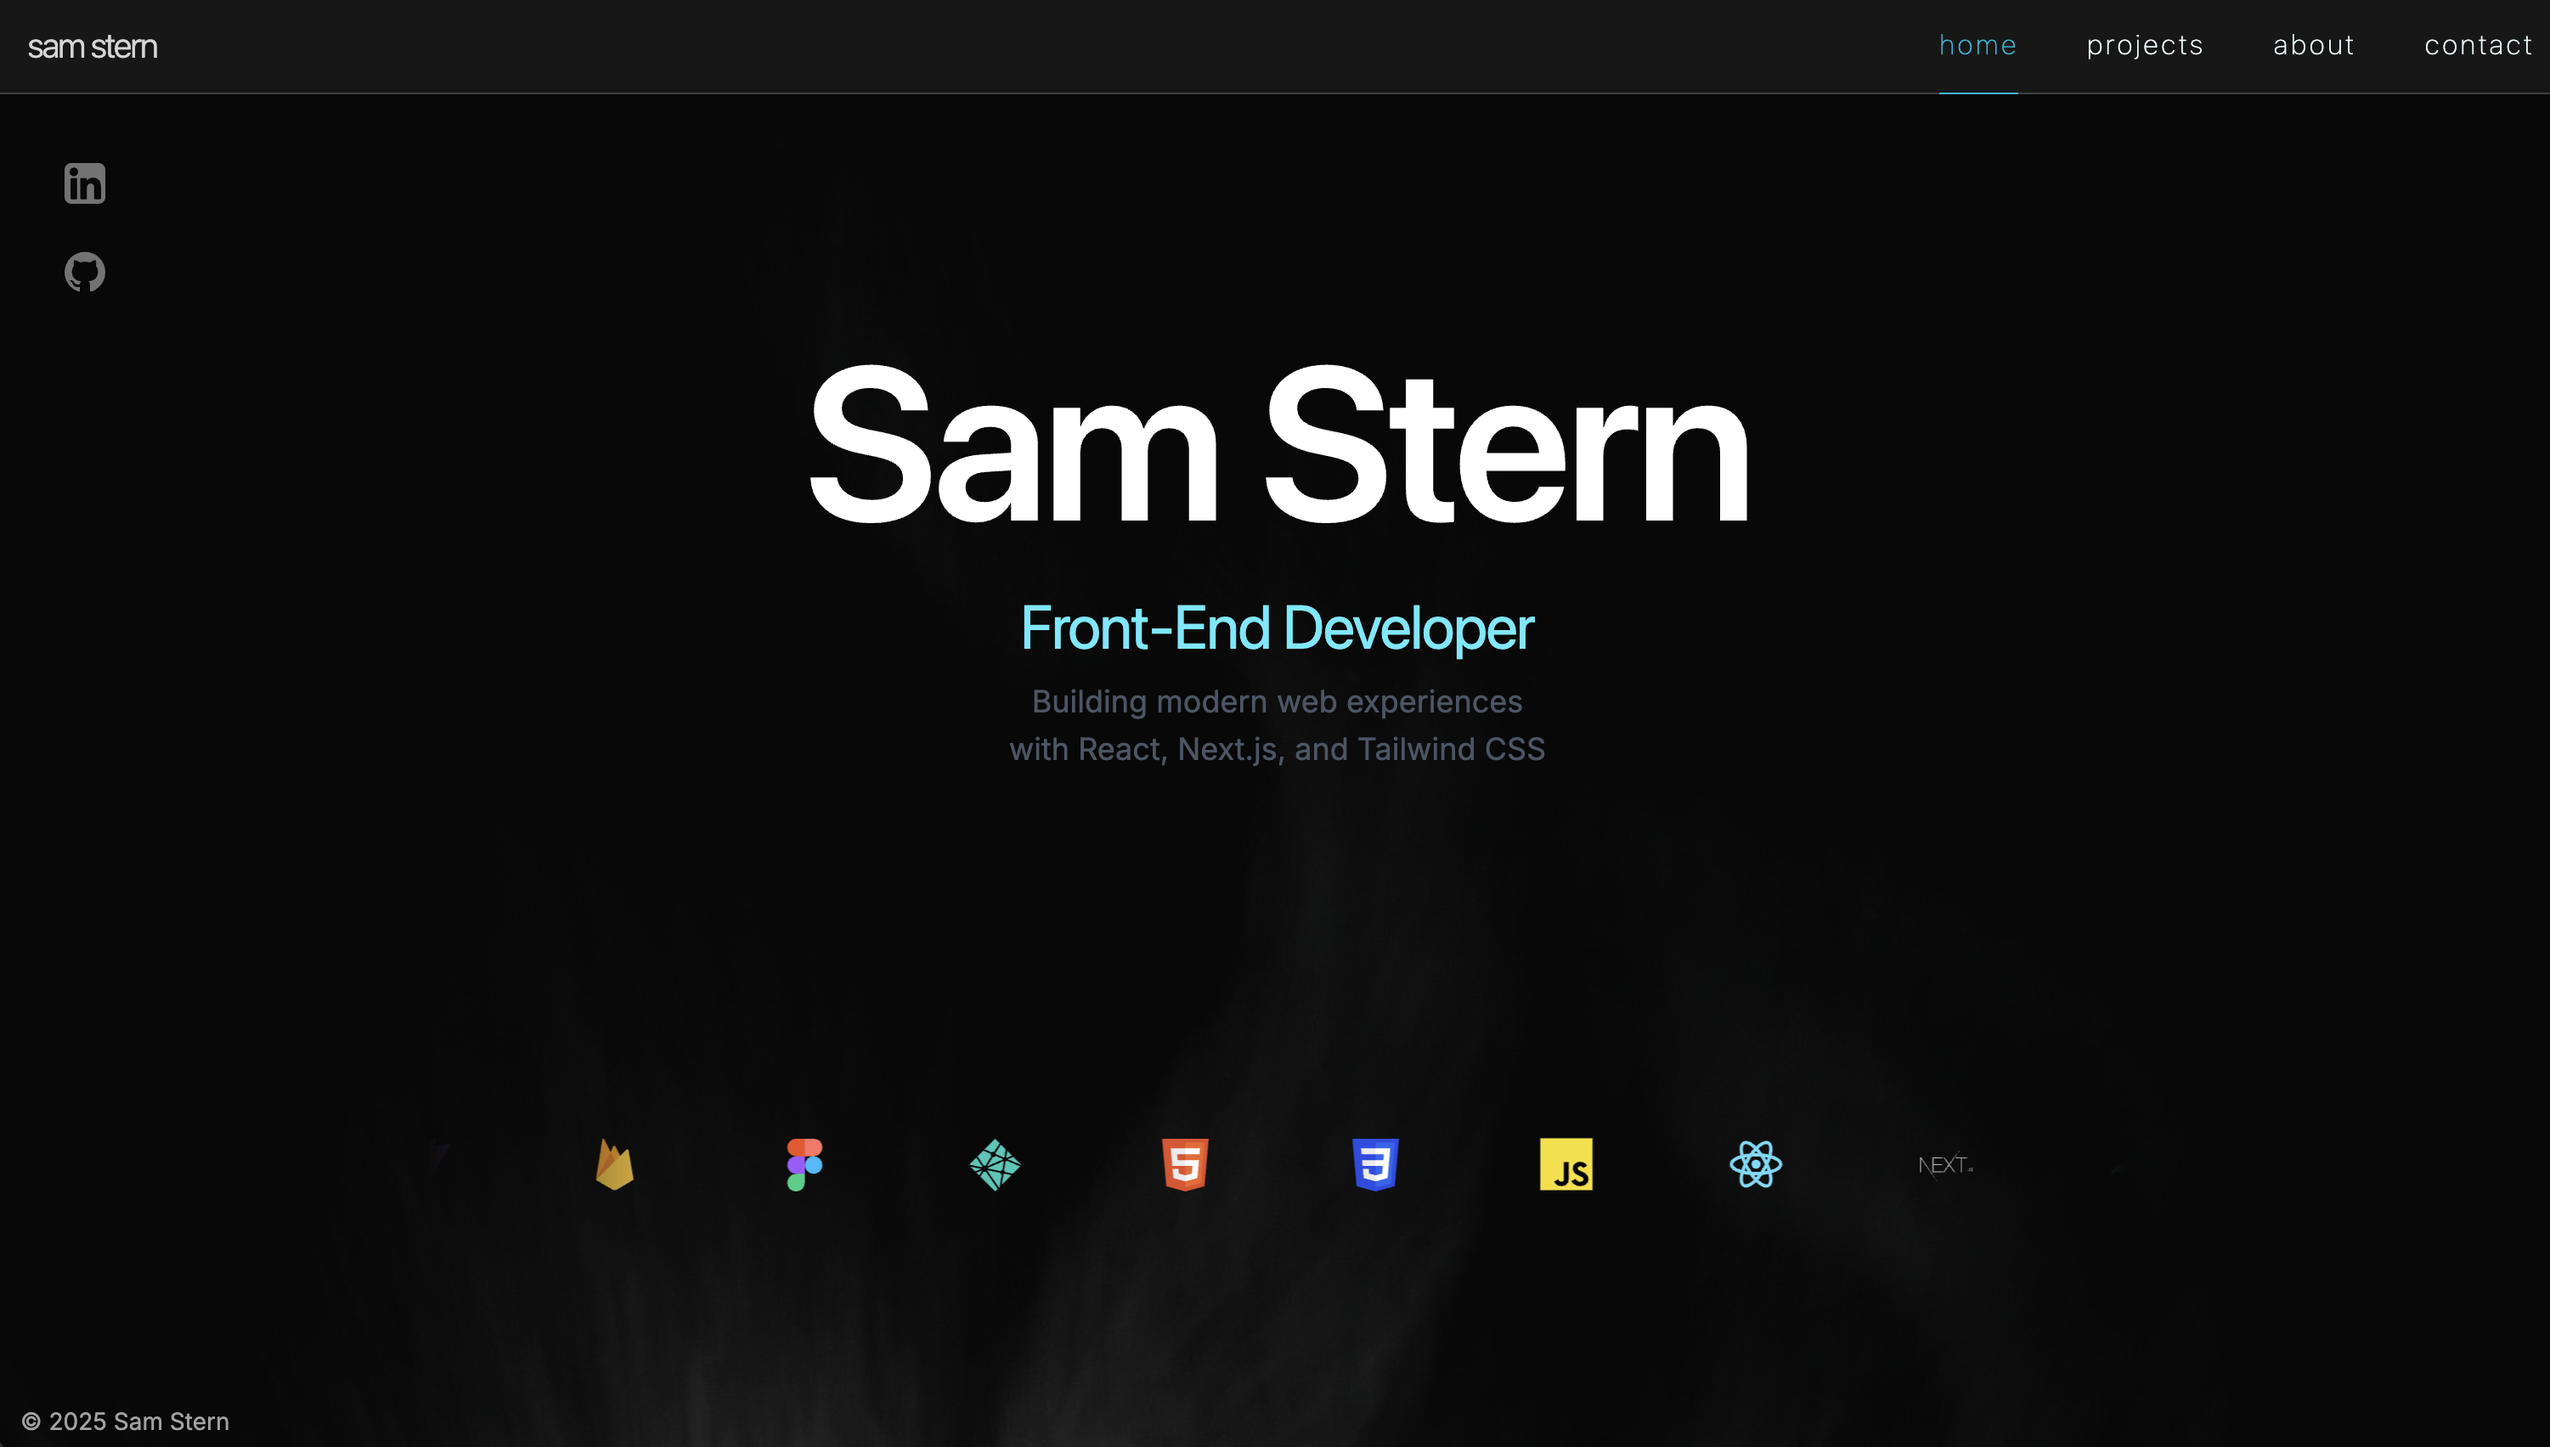
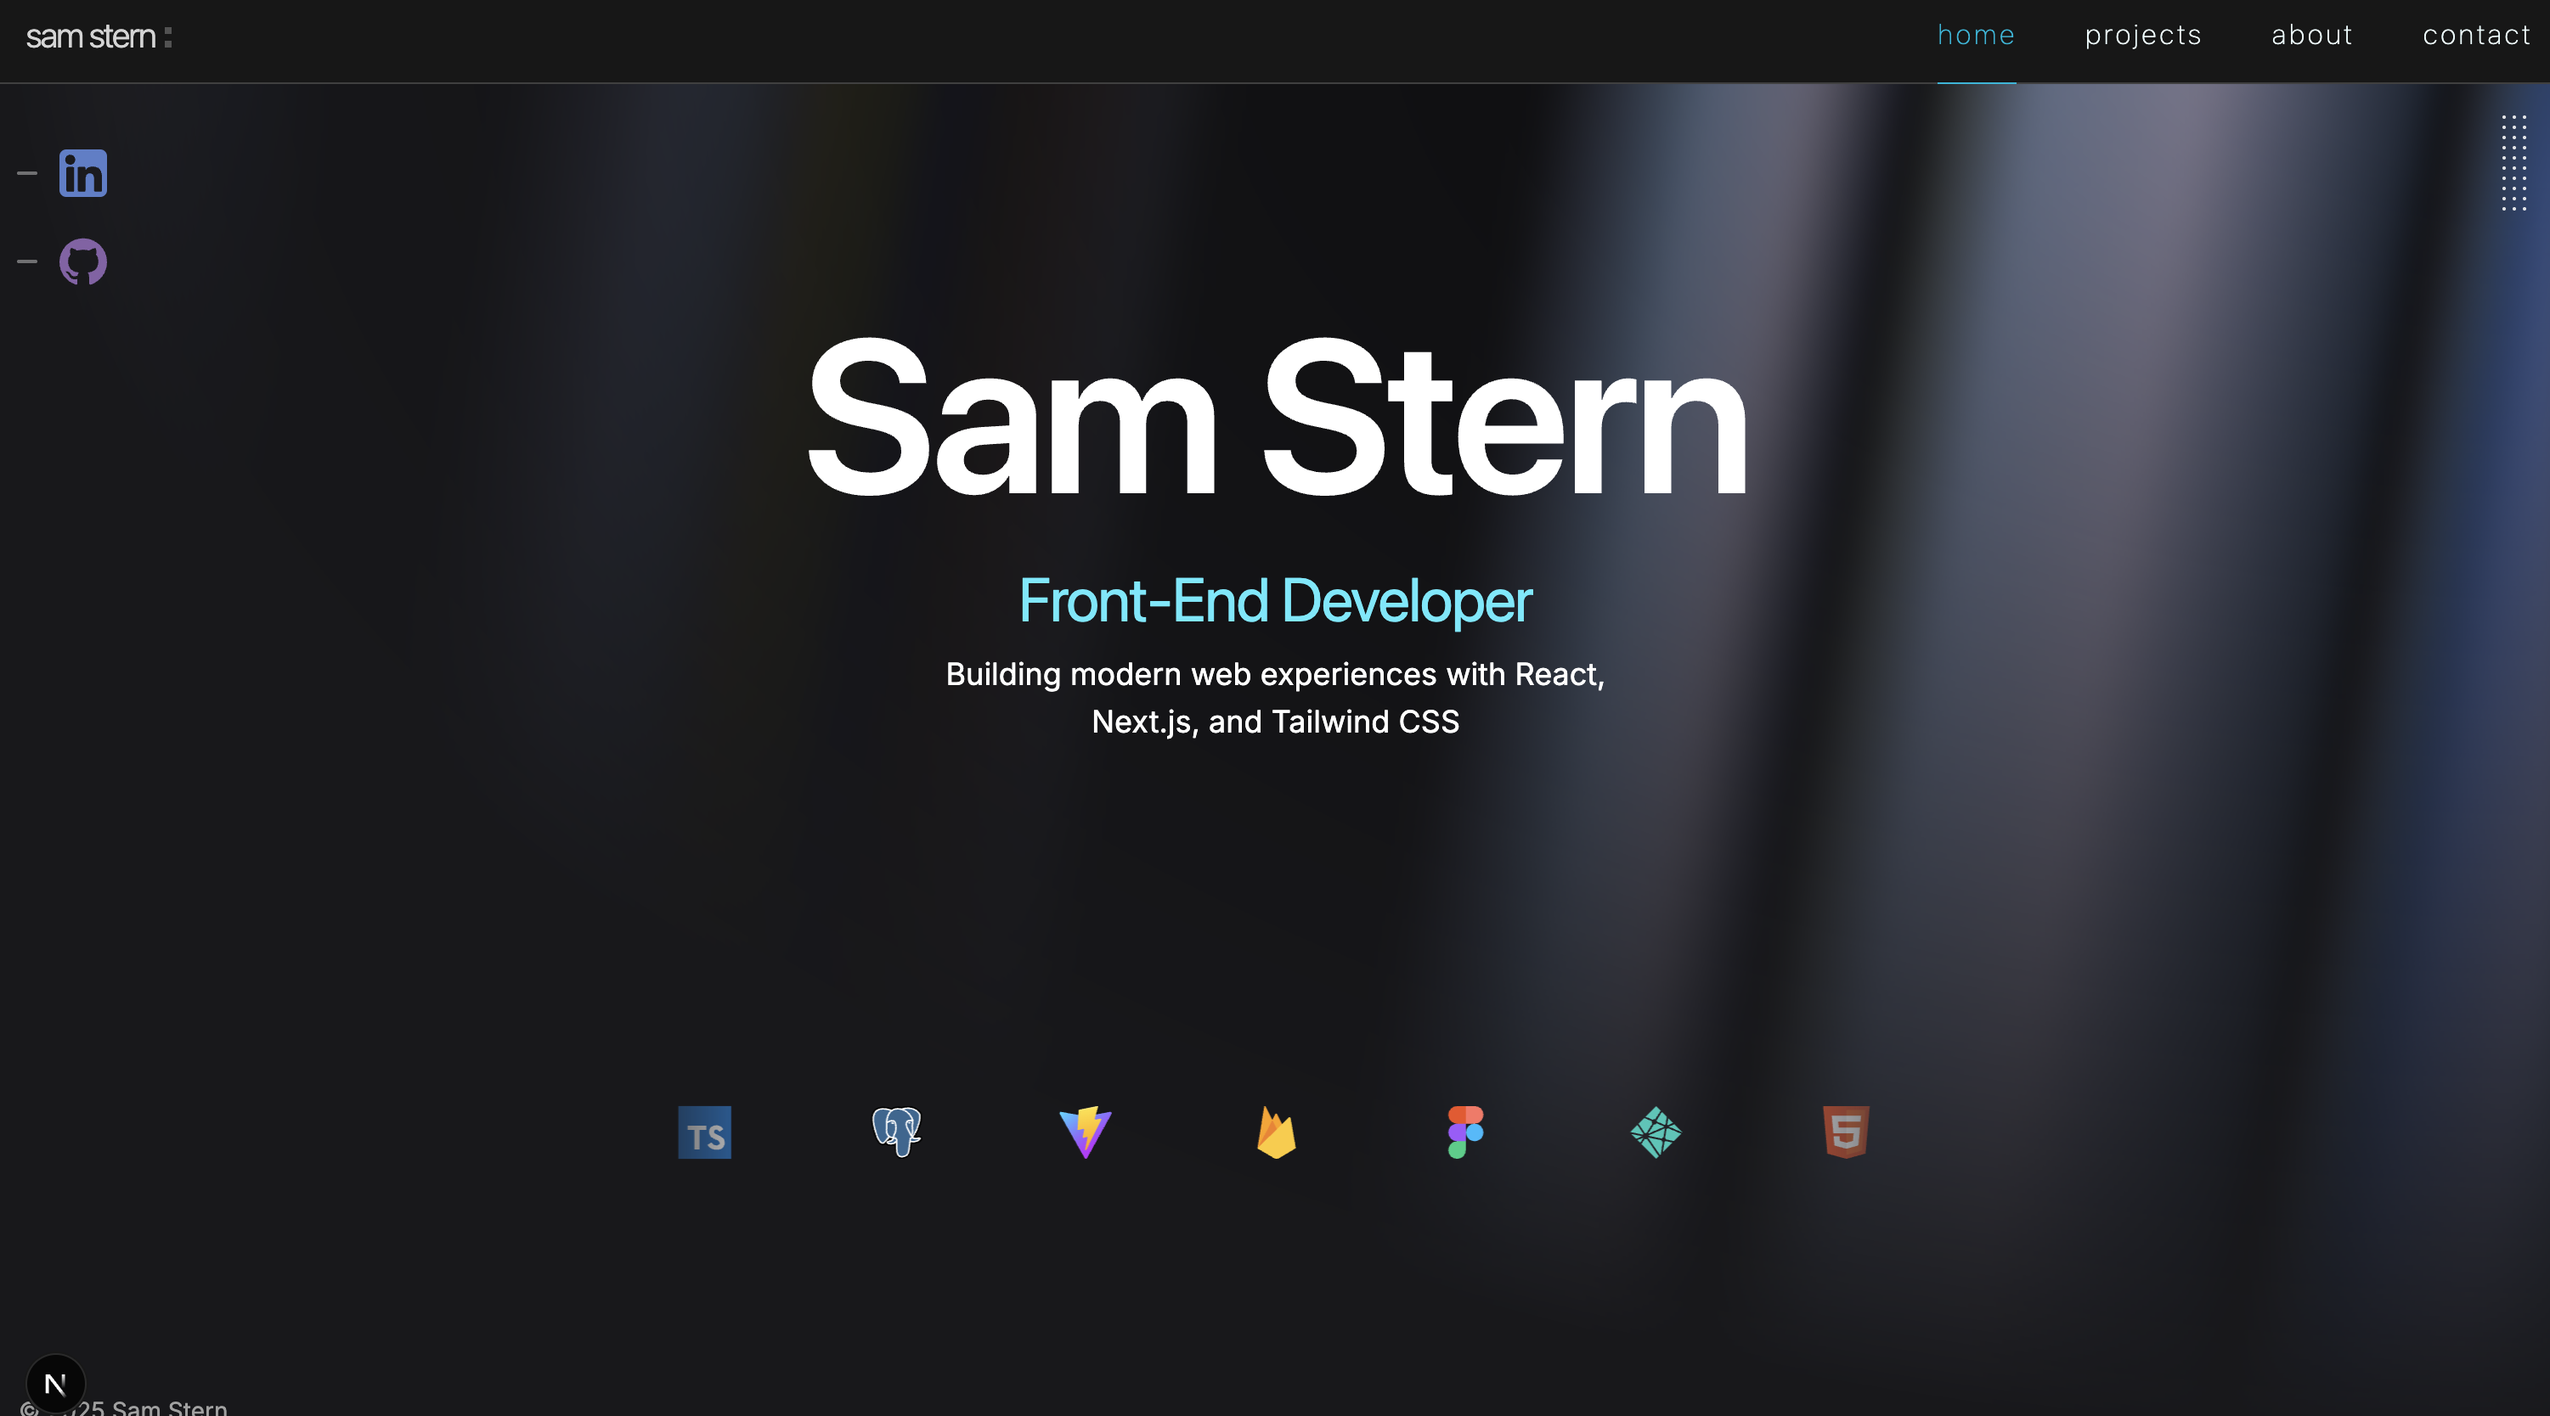
updated Dot gsap

diff --git a/components/ui/dots.tsx b/components/ui/dots.tsx
@@ -22,6 +22,9 @@ export default function Dots({
   yTo = 0,
   repeat = 0,
   yoyo = false,
+  delay = 0,
+  rotateFrom = 0,
+  rotateTo = 0,
 }: DotsProps) {
   const containerRef = useRef<HTMLDivElement>(null);
   const dotsRef = useRef<HTMLDivElement[]>([]);
@@ -30,7 +33,13 @@ export default function Dots({
   useGSAP(() => {
     gsap.fromTo(
       dotsRef.current,
-      { opacity: opacityFrom, scale: scaleFrom, x: xFrom, y: yFrom },
+      {
+        opacity: opacityFrom,
+        scale: scaleFrom,
+        x: xFrom,
+        y: yFrom,
+        rotate: rotateFrom,
+      },
       {
         opacity: opacityTo,
         scale: scaleTo,
@@ -41,6 +50,8 @@ export default function Dots({
         repeat: repeat,
         yoyo: yoyo,
         ease: "power2.inOut",
+        delay: delay,
+        rotate: rotateTo,
       }
     );
   });
@@ -51,6 +62,18 @@ export default function Dots({
     small: "w-1 h-1",
     medium: "w-2 h-2",
     large: "w-3 h-3",
+    xsmallShortLine: "w-0.5 h-1",
+    xsmallMediumLine: "w-0.5 h-3",
+    xsmallLongLine: "w-0.5 h-5",
+    smallShortLine: "w-1 h-3",
+    smallMediumLine: "w-1 h-5",
+    smallLongLine: "w-1 h-7",
+    mediumShortLine: "w-2 h-5",
+    mediumMediumLine: "w-2 h-7",
+    mediumLongLine: "w-2 h-9",
+    largeShortLine: "w-3 h-7",
+    largeMediumLine: "w-3 h-9",
+    largeLongLine: "w-3 h-11",
   };
 
   const shapeClass = shape === "round" ? "rounded-full" : "";
@@ -63,7 +86,7 @@ export default function Dots({
       ref={(el) => {
         if (el) dotsRef.current[i] = el;
       }}
-      className={`bg-neutral-400 border border-neutral-100 ${shapeClass} ${sizeClasses[size]} mx-auto my-auto dot`}
+      className={`bg-neutral-100 border border-neutral-100 ${shapeClass} ${sizeClasses[size]} mx-auto my-auto dot`}
     />
   ));
 
@@ -72,6 +95,7 @@ export default function Dots({
     <div
       className="grid gap-1 place-items-center"
       ref={containerRef}
+      aria-hidden="true"
       style={{
         gridTemplateColumns: `repeat(${cols}, auto)`,
         gridTemplateRows: `repeat(${rows}, auto)`,

diff --git a/app/layout.tsx b/app/layout.tsx
@@ -36,7 +36,7 @@ export default function RootLayout({
               <SocialLinks />
             </aside>
           </header>
-          <div className="absolute hidden md:block top-19 right-5 z-[10000] opacity-40">
+          <div className="absolute hidden md:block top-19 right-5 z-[10000] opacity-90">
             <Dots
               size="xsmall"
               shape="round"
@@ -52,36 +52,40 @@ export default function RootLayout({
               yoyo={false}
             />
           </div>
-          <div className="absolute hidden md:block top-26 left-5 z-[10000] animate-pulse">
+          <div className="absolute hidden md:block top-26 left-5 z-[10000] opacity-40">
             <Dots
-              size="xsmall"
+              size="xsmallMediumLine"
               shape="round"
               cols={1}
-              rows={3}
+              rows={1}
               duration={1}
-              stagger={0.1}
               opacityFrom={1}
               opacityTo={1}
               xFrom={-100}
               xTo={0}
               repeat={0}
               yoyo={false}
+              delay={0}
+              rotateFrom={90}
+              rotateTo={-90}
             />
           </div>
-          <div className="absolute hidden md:block top-39 left-5 z-[10000] animate-pulse">
+          <div className="absolute hidden md:block top-39 left-5 z-[10000] opacity-40">
             <Dots
-              size="xsmall"
+              size="xsmallMediumLine"
               shape="round"
               cols={1}
-              rows={3}
+              rows={1}
               duration={1}
-              stagger={0.1}
               opacityFrom={1}
               opacityTo={1}
               xFrom={-100}
               xTo={0}
               repeat={0}
               yoyo={false}
+              delay={0.1}
+              rotateFrom={90}
+              rotateTo={-90}
             />
           </div>
 

diff --git a/components/Navbar.tsx b/components/Navbar.tsx
@@ -3,6 +3,7 @@
 import SocialLinks from "@/components/SocialLinks";
 import { links } from "@/lib/navLinkData";
 import Link from "next/link";
+import Dots from "./ui/dots";
 
 import NavLink from "@/components/NavLink";
 import { useState } from "react";
@@ -40,16 +41,29 @@ export default function Navbar() {
 
   return (
     <nav
-      className="fixed top-0 w-full z-[9999] px-0 py-0 md:px-4 md:py-4 bg-neutral-900 border-b-1 border-b-neutral-700 box-border"
+      className="fixed top-0 w-full z-[9999] px-0 py-0 md:px-4 md:py-4 bg-neutral-900 border-b-1 border-b-neutral-700 box-border fade-in-down"
       aria-label="Main navigation"
     >
       <Link
         href="/"
         aria-label="Sam Stern logotype, also link to home page"
-        className="absolute top-6 left-5 md:top-4 text-neutral-300 text-center font-sans text-xl font-light tracking-tighter leading-tight swipe-in-left"
+        className="absolute top-6 left-5 md:top-4 text-neutral-300 text-center font-sans text-xl font-light tracking-tighter leading-tight "
       >
         sam stern
       </Link>
+      <div className="absolute top-8 md:top-6 left-25.5 z-[10000] opacity-90">
+        <Dots
+          size="small"
+          shape="square"
+          rows={2}
+          cols={1}
+          duration={2}
+          opacityFrom={0.2}
+          opacityTo={1}
+          repeat={-1}
+          yoyo={true}
+        />
+      </div>
       <div className="flex">
         {/* Desktop Navbar */}
         <div className="hidden md:flex justify-end items-center max-w-6xl ml-auto bg-neutral-900 ">

diff --git a/app/page.tsx b/app/page.tsx
@@ -6,7 +6,7 @@ export default function Home() {
     <>
       <ScrollToTop />
       <div className="relative w-screen h-[calc(100vh-10rem)] flex flex-col justify-center items-center gap-30 mt-15 sm:gap-50 overflow-hidden page-swipe">
-        <header className="flex flex-col justify-center items-center gap-2 ">
+        <header className="flex flex-col justify-center items-center gap-2 mt-15">
           <h1 className="text-white text-center font-sans text-7xl md:text-9xl font-semibold tracking-tight leading-tight fade-in-down">
             Sam Stern
           </h1>

diff --git a/types/index.ts b/types/index.ts
@@ -57,8 +57,8 @@ export type AnimationContextType = {
 export type DotsProps = {
   rows?: number;
   cols?: number;
-  size?: "xsmall" | "small" | "medium" | "large";
-  shape?: "round" | "square";
+  size?: string;
+  shape?: string;
   opacityFrom?: number;
   opacityTo?: number;
   duration?: number;
@@ -71,4 +71,7 @@ export type DotsProps = {
   yTo?: number;
   repeat?: number;
   yoyo?: boolean;
+  delay?: number;
+  rotateFrom?: number;
+  rotateTo?: number;
 }

diff --git a/app/globals.css b/app/globals.css
@@ -167,17 +167,17 @@
 @property --clr-1 {
   syntax: "<color>";
   inherits: true;
-  initial-value: rgb(146, 47, 146);
+  initial-value: rgb(111, 93, 111);
 }
 @property --clr-2 {
   syntax: "<color>";
   inherits: true;
-  initial-value:  rgb(84, 97, 216);
+  initial-value:  rgb(145, 150, 190);
 }
 @property --clr-3 {
   syntax: "<color>";
   inherits: true;
-  initial-value: rgb(0, 115, 128);
+  initial-value: rgb(1, 83, 93);
 }
 
 @property --glow-deg {

diff --git a/components/SocialLinks.tsx b/components/SocialLinks.tsx
@@ -9,7 +9,7 @@ import { socialLinkData } from "@/lib/socialLinkData";
 export default function SocialLinks() {
   return (
     <nav aria-label="Social links">
-      <ul className="flex flex-row md:items-center  md:flex-col">
+      <ul className="flex flex-row md:items-center  md:flex-col fade-in-left">
         {socialLinkData.map((link) => (
           <li key={link.id} className="md:my-3 mr-3">
             <a

diff --git a/lib/cardData.ts b/lib/cardData.ts
@@ -35,8 +35,8 @@ export const cardData: CardData[] = [
     brief:
       "My personal site built with Next.js, React, and TypeScript to showcase projects, skills, and front-end expertise.",
     imageSrc: "/portfolio-image.png",
-    width: 3338,
-    height: 1854,
+    width: 3002,
+    height: 1668,
     alt: "Screenshot of portfolio website",
     className: "glow-3",
   },
